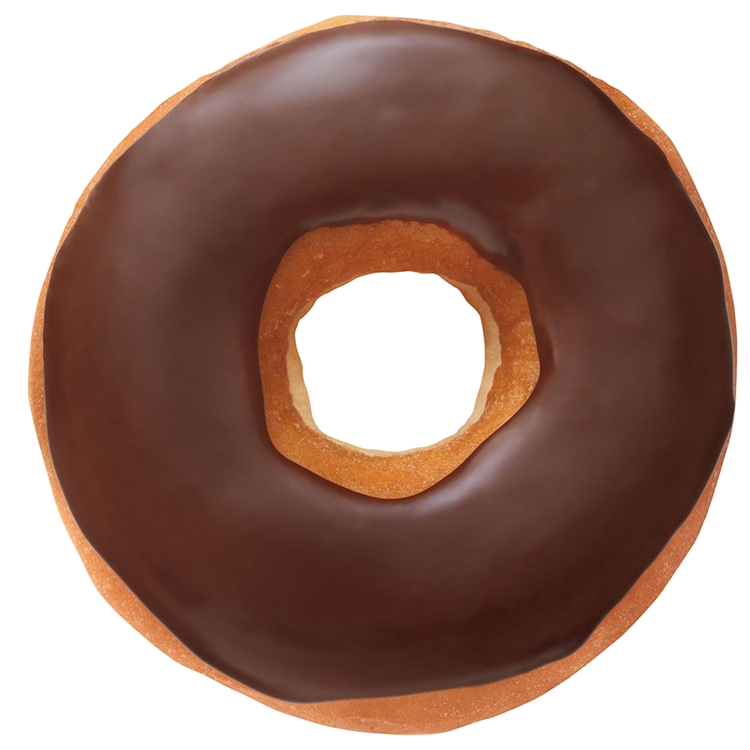
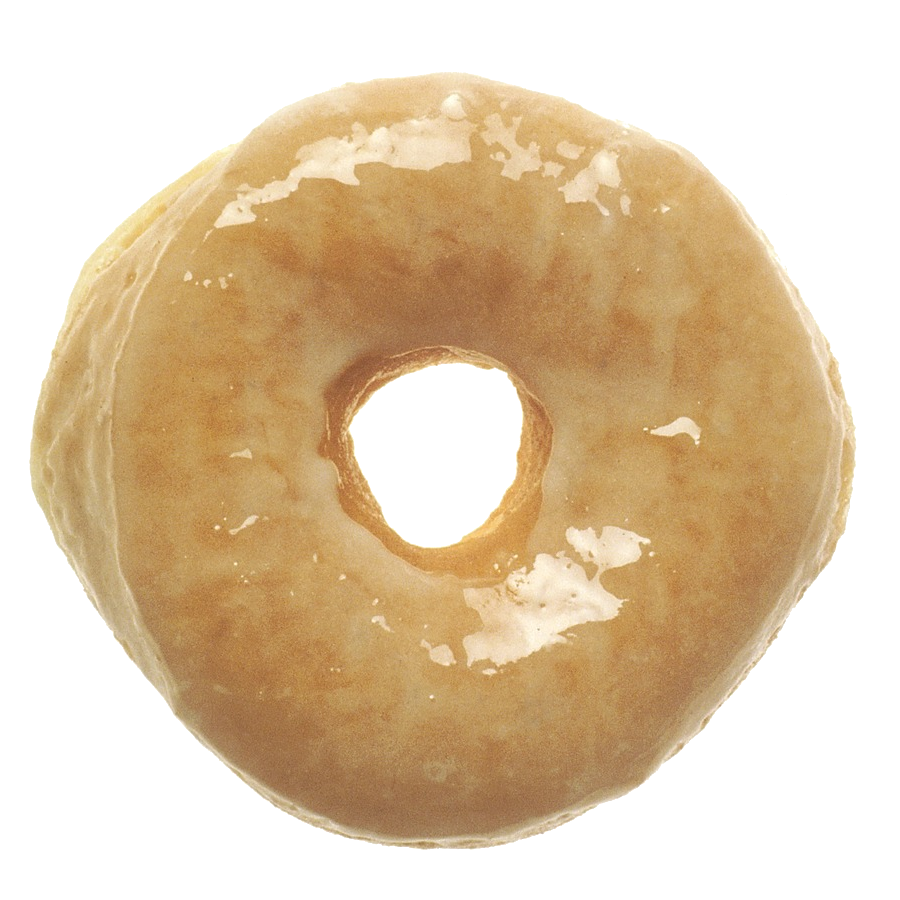
Changed to a free donut image

diff --git a/main.qml b/main.qml
@@ -1,8 +1,8 @@
 import QtQuick 2.0
 
 Item {
-    width: 750
-    height: 750
+    width: 900
+    height: 900
 
     Image {
         source: "donut.png"
